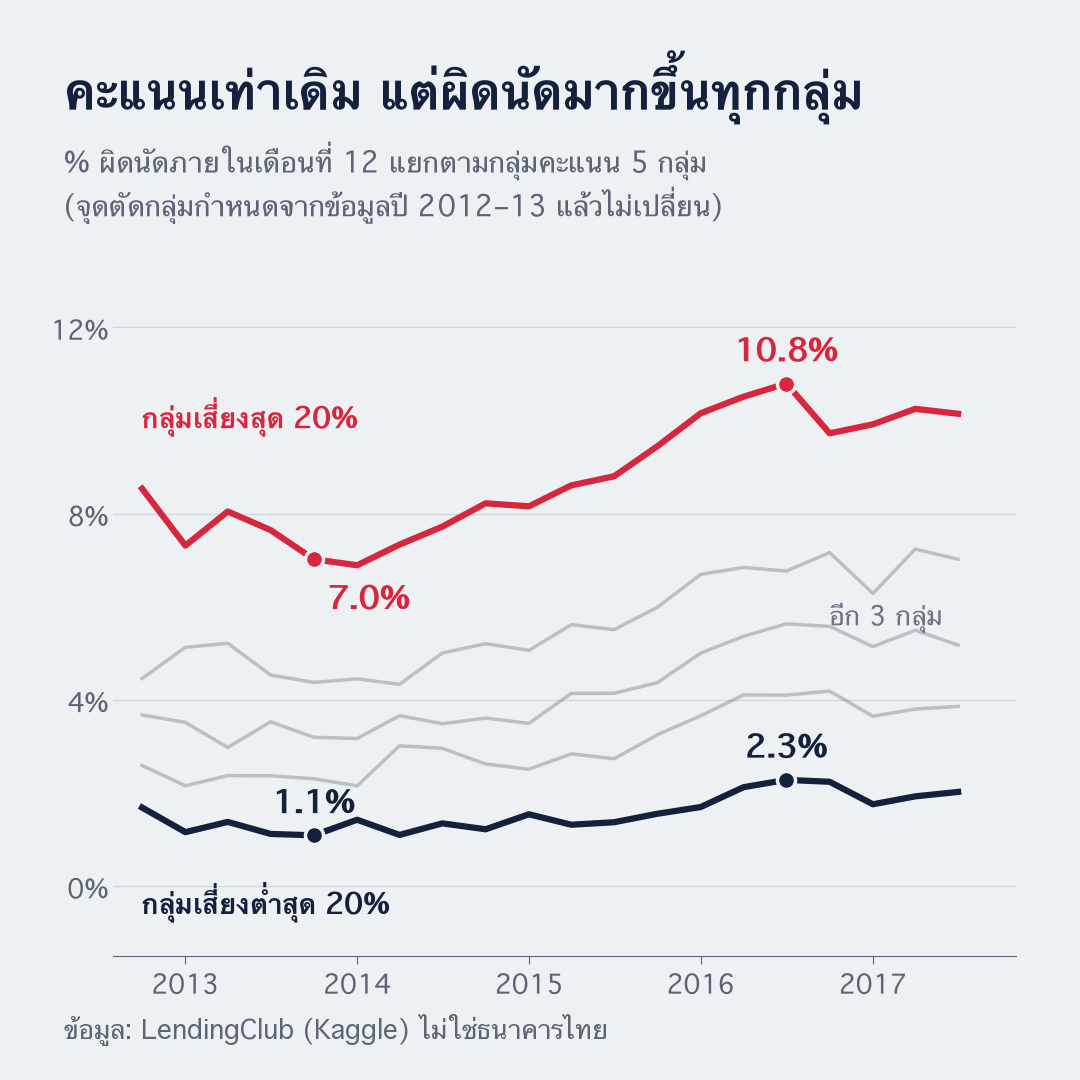
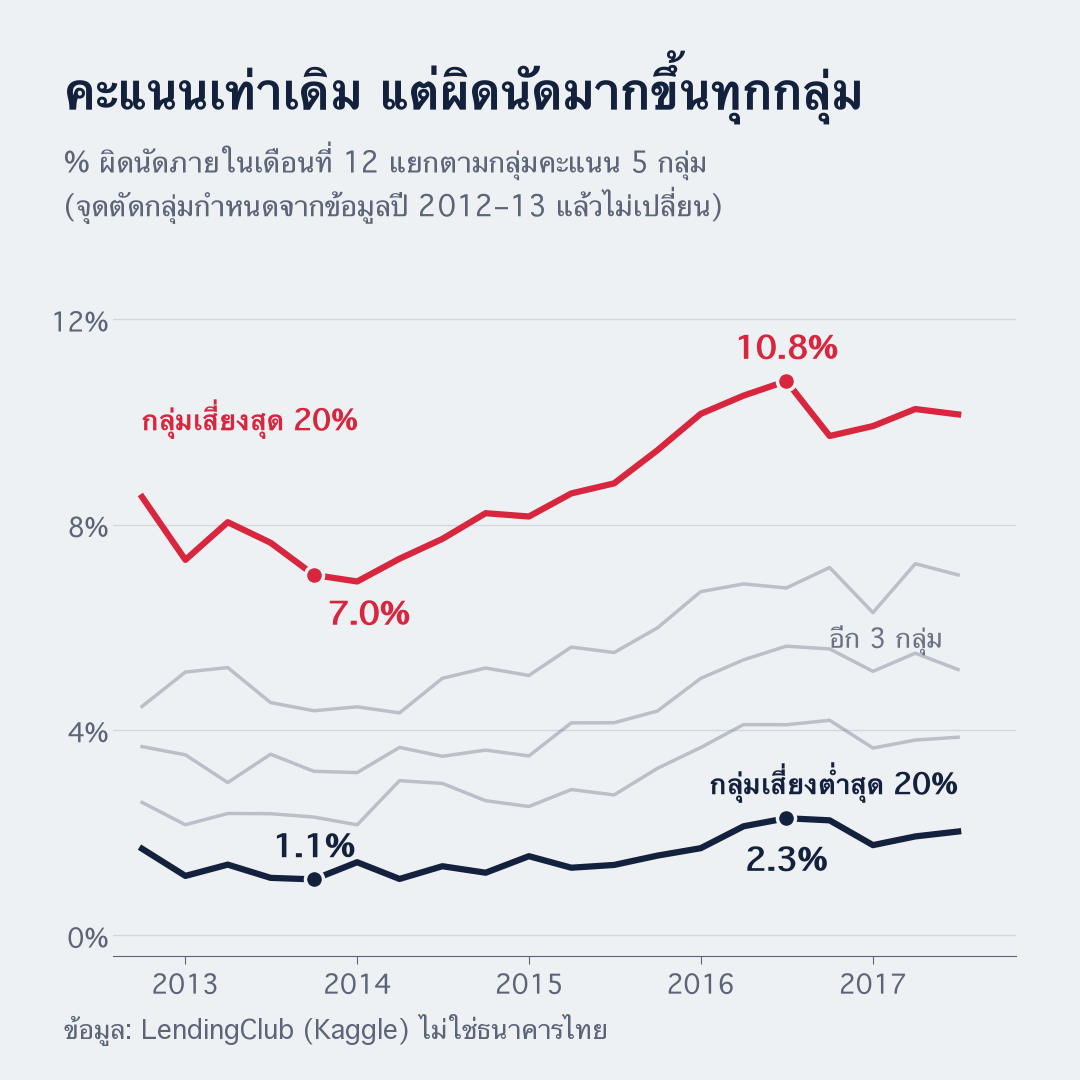
Thai figures: amber first alarm in fig3_th, safest-band label above its line in fig2_th, no middle dots
Numbers and data unchanged (same whitelist and claim asserts pass); new gate rejects '·'.

diff --git a/src/report/article_figures_th.py b/src/report/article_figures_th.py
@@ -21,6 +21,7 @@ from PIL import Image
 ROOT = Path(__file__).resolve().parents[2]
 OUT = ROOT / "reports" / "figures" / "article_th"
 BG, INK, RED, OK, SEC, GRID = "#EEF1F4", "#14213D", "#D7263D", "#2E9E6A", "#5B6577", "#D3D8DF"
+AMBER = "#E0A100"
 DPI, SIDE, MIN_PX = 100, 1080, 26
 SOURCE = "ข้อมูล: LendingClub (Kaggle) ไม่ใช่ธนาคารไทย"
 TH_MON = ["ม.ค.", "ก.พ.", "มี.ค.", "เม.ย.", "พ.ค.", "มิ.ย.", "ก.ค.", "ส.ค.", "ก.ย.", "ต.ค.", "พ.ย.", "ธ.ค."]
@@ -118,6 +119,7 @@ def finish(fig, name, allowed):
         assert bb.x0 >= 0 and bb.x1 <= SIDE and bb.y0 >= 0 and bb.y1 <= SIDE, f"{name}: text outside canvas {s[:40]!r}"
         size_px = t.get_fontsize() * DPI / 72
         assert size_px >= MIN_PX - 1e-6, f"{name}: {size_px:.1f}px < {MIN_PX}px: {s[:40]!r}"
+        assert "·" not in s, f"{name}: middle dot in {s[:40]!r}"
         caps = [w for w in re.findall(r"[A-Za-z]{2,}", s) if w.isupper() and w not in ACRONYMS]
         assert not caps, f"{name}: all-caps word(s) {caps} in {s[:40]!r}"
         if not is_tick:
@@ -201,16 +203,18 @@ def render_th(mj, mon, band_mob12):
     ax.plot(x, 100 * t5[1], color=RED, linewidth=4.5)
     ax.plot(x, 100 * t5[5], color=INK, linewidth=4.5)
     for k, col in ((1, RED), (5, INK)):
-        for q, off, ha in ((a, (0, 16) if k == 5 else (10, -14), "center" if k == 5 else "left"), (b, (0, 16), "center")):
+        for q, off, ha in ((a, (0, 16) if k == 5 else (10, -14), "center" if k == 5 else "left"),
+                           (b, (0, -16) if k == 5 else (0, 16), "center")):
             xq = qstart([q])[0]
             ax.plot([xq], [100 * t5.loc[q, k]], "o", color=col, markersize=13, markeredgecolor=BG, markeredgewidth=2.5, zorder=5)
             ax.annotate(f"{v[k, q]}%", (xq, 100 * t5.loc[q, k]), xytext=off, textcoords="offset points", ha=ha,
                         va="top" if off[1] < 0 else "baseline",
                         fontsize=px(32), fontweight="bold", color=col)
     ax.text(x[0], 100 * t5[1].iloc[0] + 1.3, "กลุ่มเสี่ยงสุด 20%", color=RED, fontsize=px(28), fontweight="bold")
-    ax.text(x[0], 100 * t5[5].iloc[0] - 1.6, "กลุ่มเสี่ยงต่ำสุด 20%", color=INK, fontsize=px(28), fontweight="bold", va="top")
+    ax.text(x[-1], 100 * t5[5].loc[b:].max() + 0.3, "กลุ่มเสี่ยงต่ำสุด 20%", color=INK, fontsize=px(28), fontweight="bold",
+            ha="right", va="bottom")
     ax.text(pd.Timestamp("2016-10-01"), 5.6, "อีก 3 กลุ่ม", color=SEC, fontsize=px(26), alpha=0.9)
-    ax.set_ylim(-1.5, 13.5)
+    ax.set_ylim(-0.4, 13.2)
     ax.set_yticks([0, 4, 8, 12])
     ax.yaxis.set_major_formatter(lambda y, _: f"{y:.0f}%")
     year_axis(ax, "2012-08-01", "2017-11-01")
@@ -236,7 +240,7 @@ def render_th(mj, mon, band_mob12):
     assert f"PSI ≤ {psi_max:.3f} all quarters 2014Q1–2018Q4 (amber 0.10)" in claims and psi_max < 0.06         # C10
     fig, top = canvas("สัญญาณเตือนดังช้าไป 26 เดือน",
                       f"ระหว่างนั้นปล่อยกู้ไปแล้ว {n_booked:,} สัญญา\n"
-                      "โมเดล as-of (ใช้ข้อมูลถึง 31 ธ.ค. 2014) · จุดวางตามวันที่รู้ผลได้จริง")
+                      "โมเดล as-of (ใช้ข้อมูลถึง 31 ธ.ค. 2014) วางจุดตามวันที่รู้ผลได้จริง")
     ax1, ax2 = stack(fig, top, [0.66, 0.34])
     lo, hi = "2014-01-01", "2019-06-01"
     for ax in (ax1, ax2):
@@ -247,16 +251,15 @@ def render_th(mj, mon, band_mob12):
     for _, rr in am.iterrows():
         f = rr["A/E flag"]
         ax1.plot([rr.k], [rr["A/E12"]], "o", markersize=14 if f != "green" else 11, zorder=4,
-                 color=OK if f == "green" else (BG if f == "AMBER" else RED),
-                 markeredgecolor=OK if f == "green" else RED, markeredgewidth=3.5)
+                 color={"green": OK, "AMBER": AMBER}.get(f, RED), markeredgecolor=BG, markeredgewidth=2.5)
     ax1.axhline(1.0, color=SEC, linewidth=1.2)
     hline(ax1, 1.10, "1.10 เตือนเหลือง", pd.Timestamp(lo))
     hline(ax1, 1.25, "1.25 เตือนแดง", pd.Timestamp(hi), va="top", ha="right")
     ax1.set_ylim(0.85, 1.55)
     ax1.set_yticks([1.0, 1.2, 1.4])
     ax1.annotate(f"เหลือง {th_month(t_amb)}", (t_amb, fa["A/E12"]), xytext=(26, -38), textcoords="offset points",
-                 va="top", fontsize=px(28), fontweight="bold", color=RED,
-                 arrowprops={"arrowstyle": "-", "color": RED, "linewidth": 1.5, "shrinkA": 0, "shrinkB": 9})
+                 va="top", fontsize=px(28), fontweight="bold", color=AMBER,
+                 arrowprops={"arrowstyle": "-", "color": AMBER, "linewidth": 1.5, "shrinkA": 0, "shrinkB": 9})
     ax1.annotate(f"แดง {th_month(t_red)}", (t_red, fr["A/E12"]), xytext=(-20, 0), textcoords="offset points",
                  ha="right", va="center", fontsize=px(28), fontweight="bold", color=RED)
     ax1.text(t_bad - pd.DateOffset(months=1), 1.53, f"{th_month(t_bad)}\nเริ่มปล่อย\nกลุ่มที่แย่ลง",
@@ -299,5 +302,5 @@ def render_th(mj, mon, band_mob12):
     ax.set_ylim(0, q["realised $m"].max() * 1.12)
     ax.grid(axis="x", visible=False)
     ax.legend(loc="lower left", bbox_to_anchor=(0, 1.0), ncol=2, handlelength=1.2, columnspacing=1.5, borderaxespad=0.3)
-    fig.text(L, 0.105, f"รวมทั้งปี: คาด \\${pred}m · จริง \\${real}m", fontsize=px(28), fontweight="bold", color=INK, va="bottom")
+    fig.text(L, 0.105, f"รวมทั้งปี: คาด \\${pred}m เทียบกับจริง \\${real}m", fontsize=px(28), fontweight="bold", color=INK, va="bottom")
     finish(fig, "fig4_th.png", {ratio, pred, real, "2015", *rq, "1", "2", "3", "4"})

diff --git a/notes/STATUS.md b/notes/STATUS.md
@@ -142,3 +142,4 @@ In Phase 2, B goes ahead **only if all three hold**. If any one fails → switch
   article เขียนใหม่ (สิ่งที่รอดก่อน แล้วสิ่งที่ fail)
 - 2026-11-25: close-out check after force quit (clean tree, no .git locks); demo rebuilt from build_demo.py (no diff); STATUS = DONE.
 - 2026-11-25: Thai social figures fig1–4_th (see Done — published).
+- 2026-11-25: Thai figures revised (amber #E0A100 for the first as-of alarm, safest-band label above its line, no middle dots); numbers unchanged; still Thonburi (IBM Plex Sans Thai not installed).
